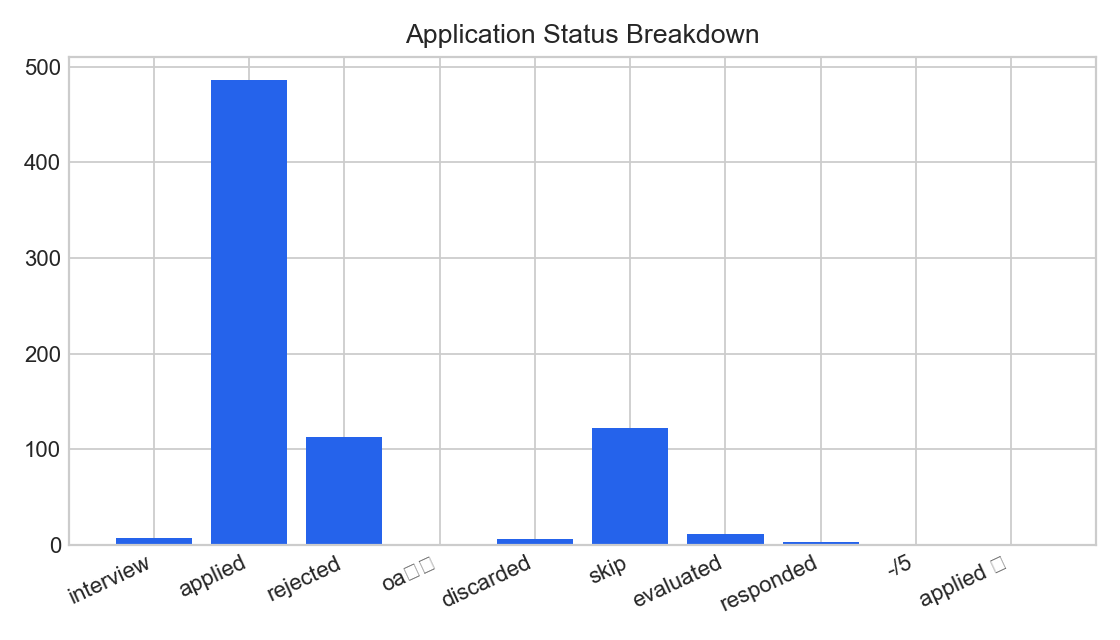
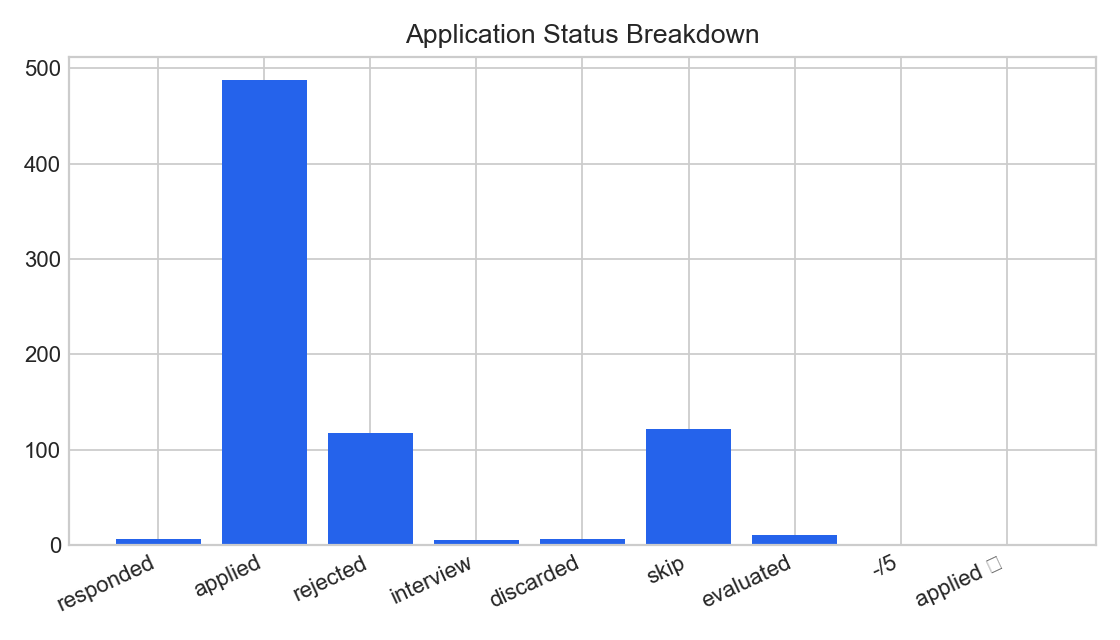
Refresh analytics: 908 merged roles (Gartner, NYL Insurance Analytics, Walmart x2, Microsoft People Analytics + status corrections)

diff --git a/data/daily_summary.md b/data/daily_summary.md
@@ -1,6 +1,6 @@
 # Daily Job Search Summary
 
-_Last refreshed: 2026-08-20T02:15:11-07:00_
+_Last refreshed: 2026-08-21T01:16:55-07:00_
 
 ## Positioning
 
@@ -10,39 +10,38 @@ _Last refreshed: 2026-08-20T02:15:11-07:00_
 
 ## Snapshot
 
-- Tracked roles: 902
-- Active roles: 507
-- Response rate: 1.6%
+- Tracked roles: 908
+- Active roles: 510
+- Response rate: 1.8%
 - LinkedIn outreach sent: 28
 - Pending pipeline items: 155
 - Recommended pipeline items: 36
-- Average evaluated score: 7.5
+- Average evaluated score: 7.47
 
 ## Status Breakdown
 
 - -/5: 1
-- applied: 486
+- applied: 488
 - applied ✅: 1
 - discarded: 6
 - evaluated: 11
-- interview: 7
-- oa完成: 1
-- rejected: 113
-- responded: 3
+- interview: 5
+- rejected: 117
+- responded: 6
 - skip: 122
 
 ## Recent Activity
 
+- 2026-08-20: Gartner | Data Analyst - 2026/2027 graduates | applied
+- 2026-08-20: New York Life | Associate, Insurance Analytics & Business Intelligence | applied
+- 2026-08-20: Walmart | Data Analyst II | applied
+- 2026-08-20: Walmart | (USA) Data Analyst II | applied
+- 2026-08-20: Microsoft | Data Analyst, People Analytics | applied
+- 2026-08-20: VIZIO (Walmart) | (USA) Data Analyst II | applied
 - 2026-08-19: Prosper | Credit Risk Analyst | applied
 - 2026-08-19: Waymark | Data/AI Scientist II | applied
 - 2026-08-18: Radian | Data Scientist I, MIRS | applied
 - 2026-08-18: NYCM Insurance | Associate Data Scientist (Hybrid) | applied
-- 2026-08-17: Protagonist | Computational Social Scientist | applied
-- 2026-08-17: Applied Materials | Knowledge Management Technical Project Manager New College Graduate | applied
-- 2026-08-17: TikTok | Data Scientist - Multimedia | applied
-- 2026-08-13: Enova | Analytics Analyst - Fraud | applied
-- 2026-08-13: Evergreen Nephrology | Healthcare Analyst | applied
-- 2026-08-13: PointClickCare | Associate Data Scientist (USA) | applied
 
 ## Recommended Opportunity Queue
 
@@ -64,13 +63,13 @@ _Last refreshed: 2026-08-20T02:15:11-07:00_
 
 ## Needs Attention
 
-- Microsoft | Applied Scientist: Microsoft AI Development Acceleration Program | 161 days with no response
-- Nvidia | Deep Learning Architect, LLM Inference - New College Grad 2026 | 161 days with no response
-- Google | Software Engineer II, Early Career | 157 days with no response
-- Apple | AIML - Machine Learning Research | 150 days with no response
-- Amazon | Data Engineer II | 148 days with no response
-- Amazon | Software Development Engineer – Amazon Leo (US) | 148 days with no response
-- Amazon | Software Development Engineer - 2026 (US) | 148 days with no response
-- Amazon | 软件开发工程师, (New graduate or Entry-level Engineer, 0-2 Years) | 148 days with no response
-- Esri | Product Test Engineer II - Feature Server | 148 days with no response
-- Esri | Product Engineer II - ArcGIS Enterprise Sharing API | 148 days with no response
+- Microsoft | Applied Scientist: Microsoft AI Development Acceleration Program | 162 days with no response
+- Nvidia | Deep Learning Architect, LLM Inference - New College Grad 2026 | 162 days with no response
+- Google | Software Engineer II, Early Career | 158 days with no response
+- Apple | AIML - Machine Learning Research | 151 days with no response
+- Amazon | Data Engineer II | 149 days with no response
+- Amazon | Software Development Engineer – Amazon Leo (US) | 149 days with no response
+- Amazon | Software Development Engineer - 2026 (US) | 149 days with no response
+- Amazon | 软件开发工程师, (New graduate or Entry-level Engineer, 0-2 Years) | 149 days with no response
+- Esri | Product Test Engineer II - Feature Server | 149 days with no response
+- Esri | Product Engineer II - ArcGIS Enterprise Sharing API | 149 days with no response
